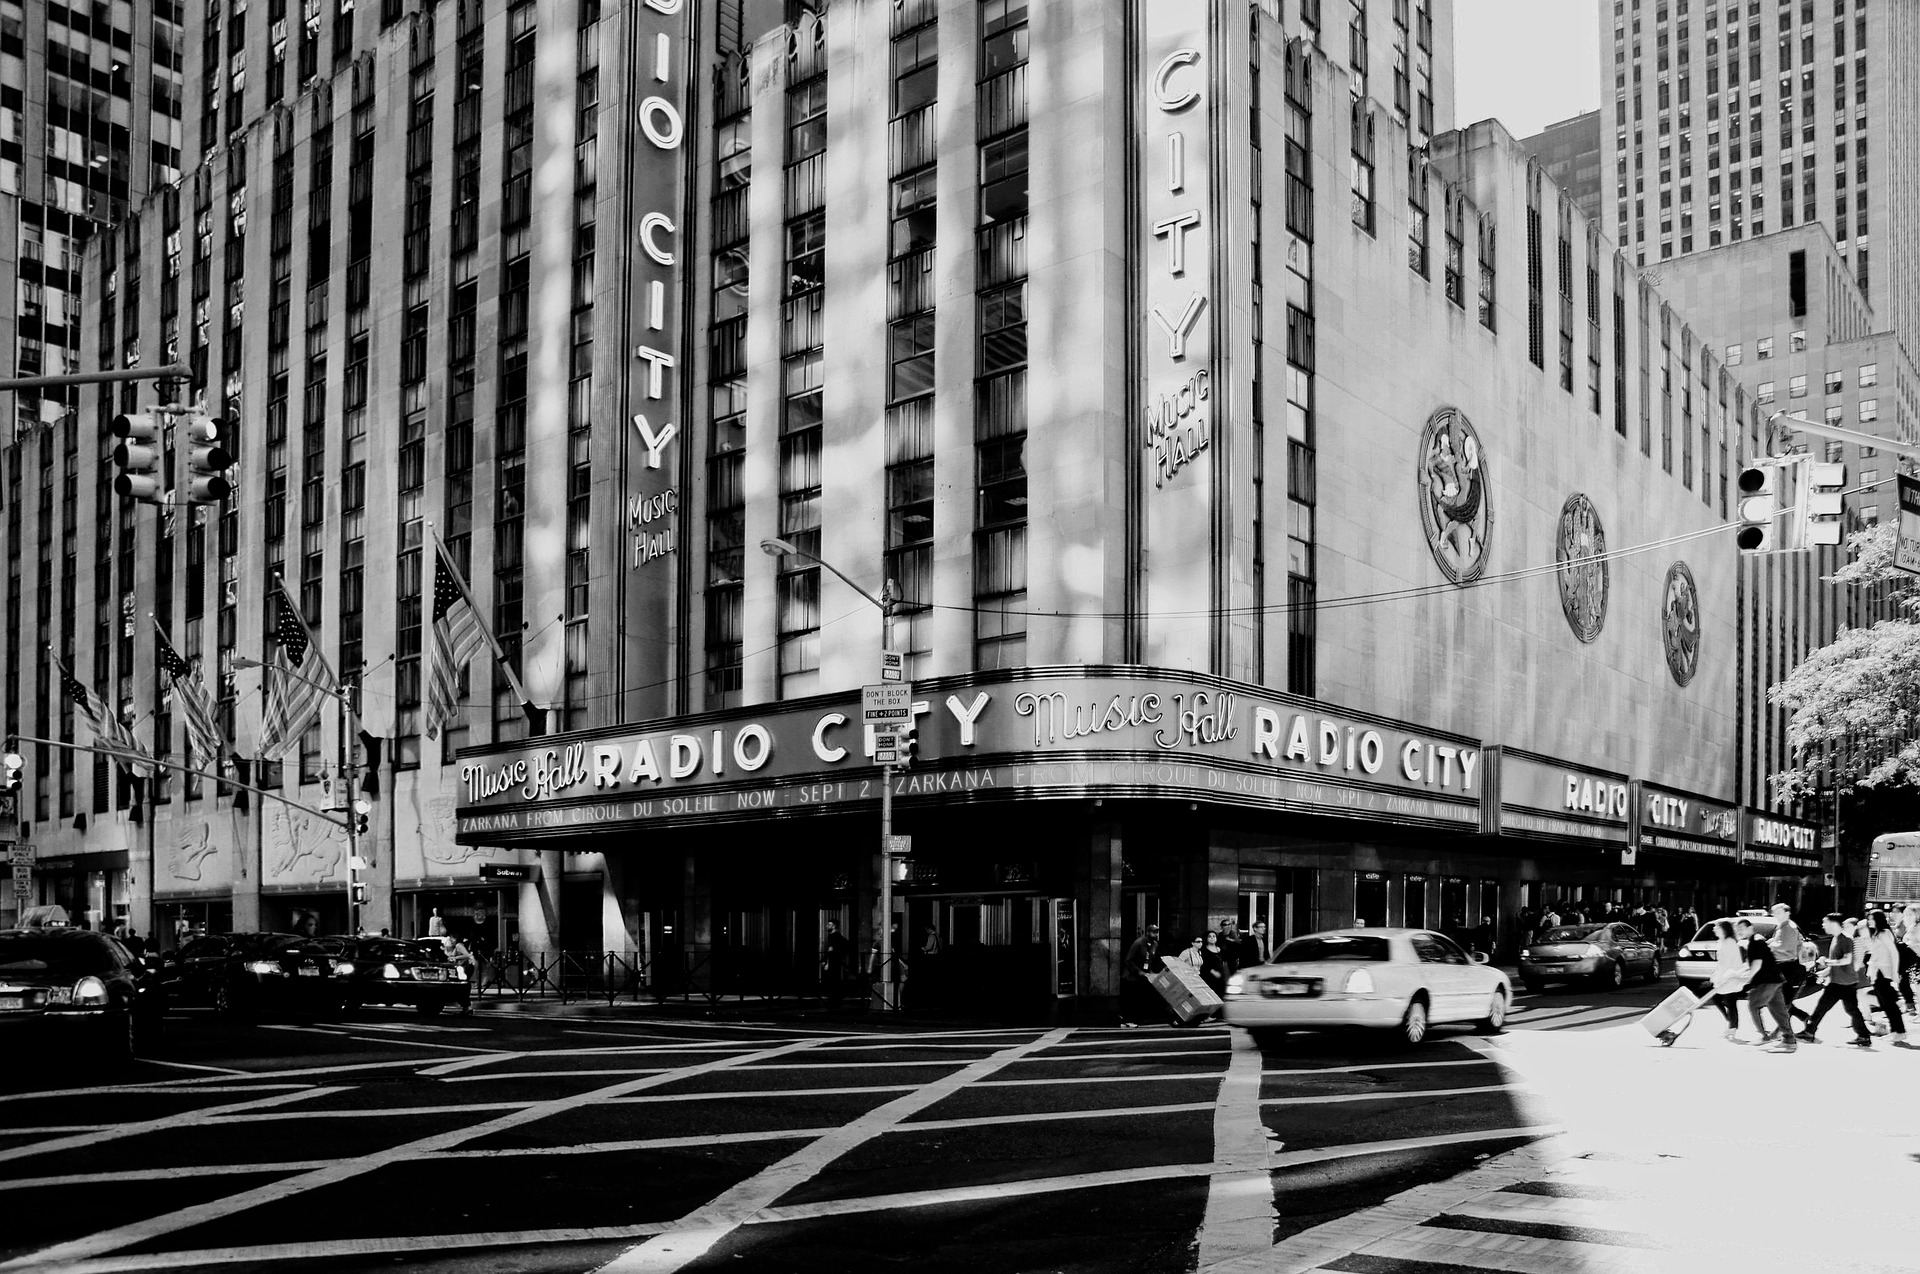
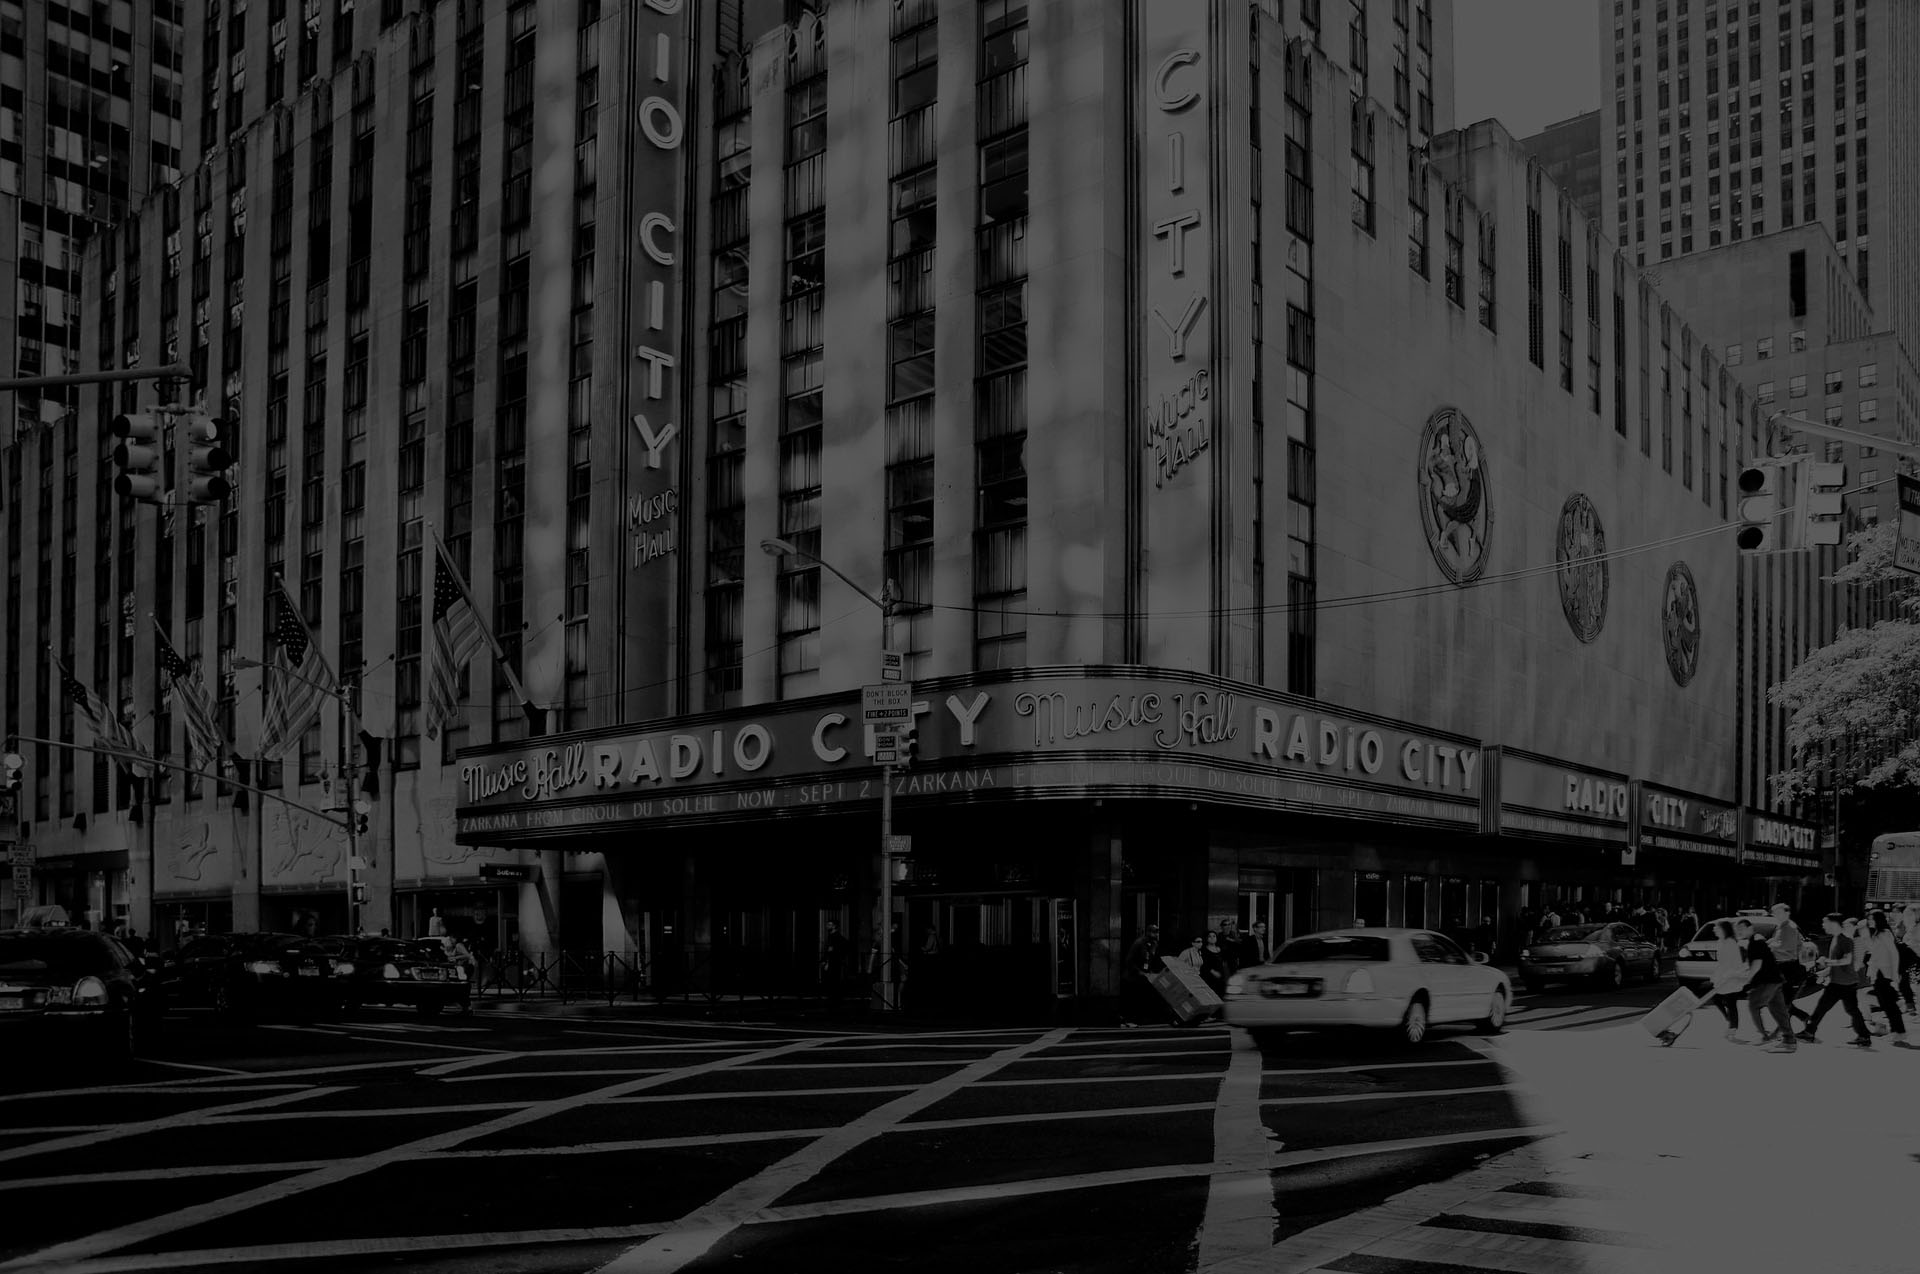
added overlay for background image and color changes

diff --git a/css/agency.css b/css/agency.css
@@ -639,7 +639,7 @@ font-weight: bold;
 }
 
 .list-background {
- background-color: rgb(254, 209, 54)
+    color: rgb(254, 209, 54)
 }
 
 .bar {
